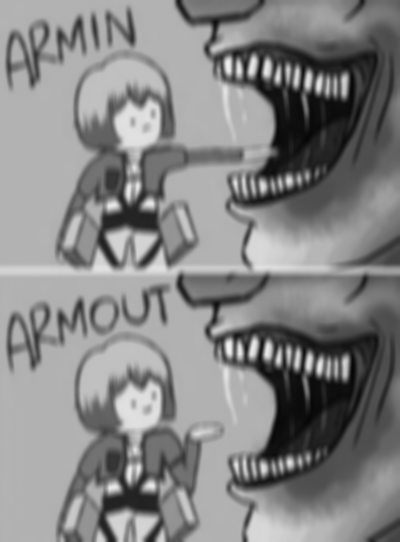
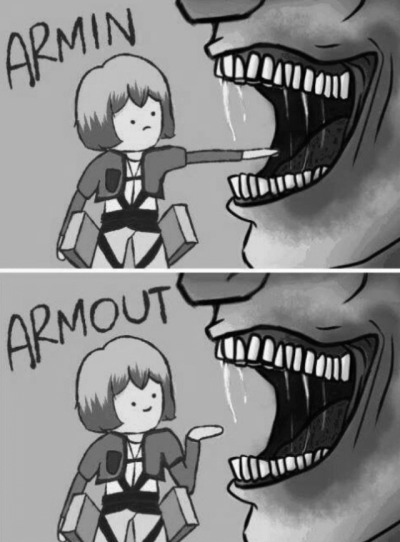
nice

diff --git a/fonction.py b/fonction.py
@@ -9,8 +9,17 @@ def gray (dossierE , dossierS):
 
     for f in files:
         img = cv2.imread(f"{dossierE}/{f}")
-        gray = cv2.cvtColor(img, cv2.COLOR_BGR2GRAY)
-        cv2.imwrite(f"{dossierS}/{f}", gray)
+        try:
+            gray = cv2.cvtColor(img, cv2.COLOR_BGR2GRAY)
+        except cv2.error as e:
+            print('image pas en jpg/png')
+
+        try:
+            cv2.imwrite(f"{dossierS}/{f}", gray)
+        except NameError as e:
+            print('varible pas crée')
+        except cv2.error as e:
+            print('')
 
 
 
@@ -19,6 +28,7 @@ def flou(dossierE, dossierS):
     files = os.listdir(dossierE)
 
     for f in files:
+        print(f)
         img = cv2.imread(f"{dossierE}/{f}")
 
         try:

diff --git a/main.py b/main.py
@@ -2,6 +2,7 @@ from fonction import gray, flou, latter
 import sys
 
 try:
+
     dossier_entrance = "images"
     dossier_exit = "images2.0"
 
